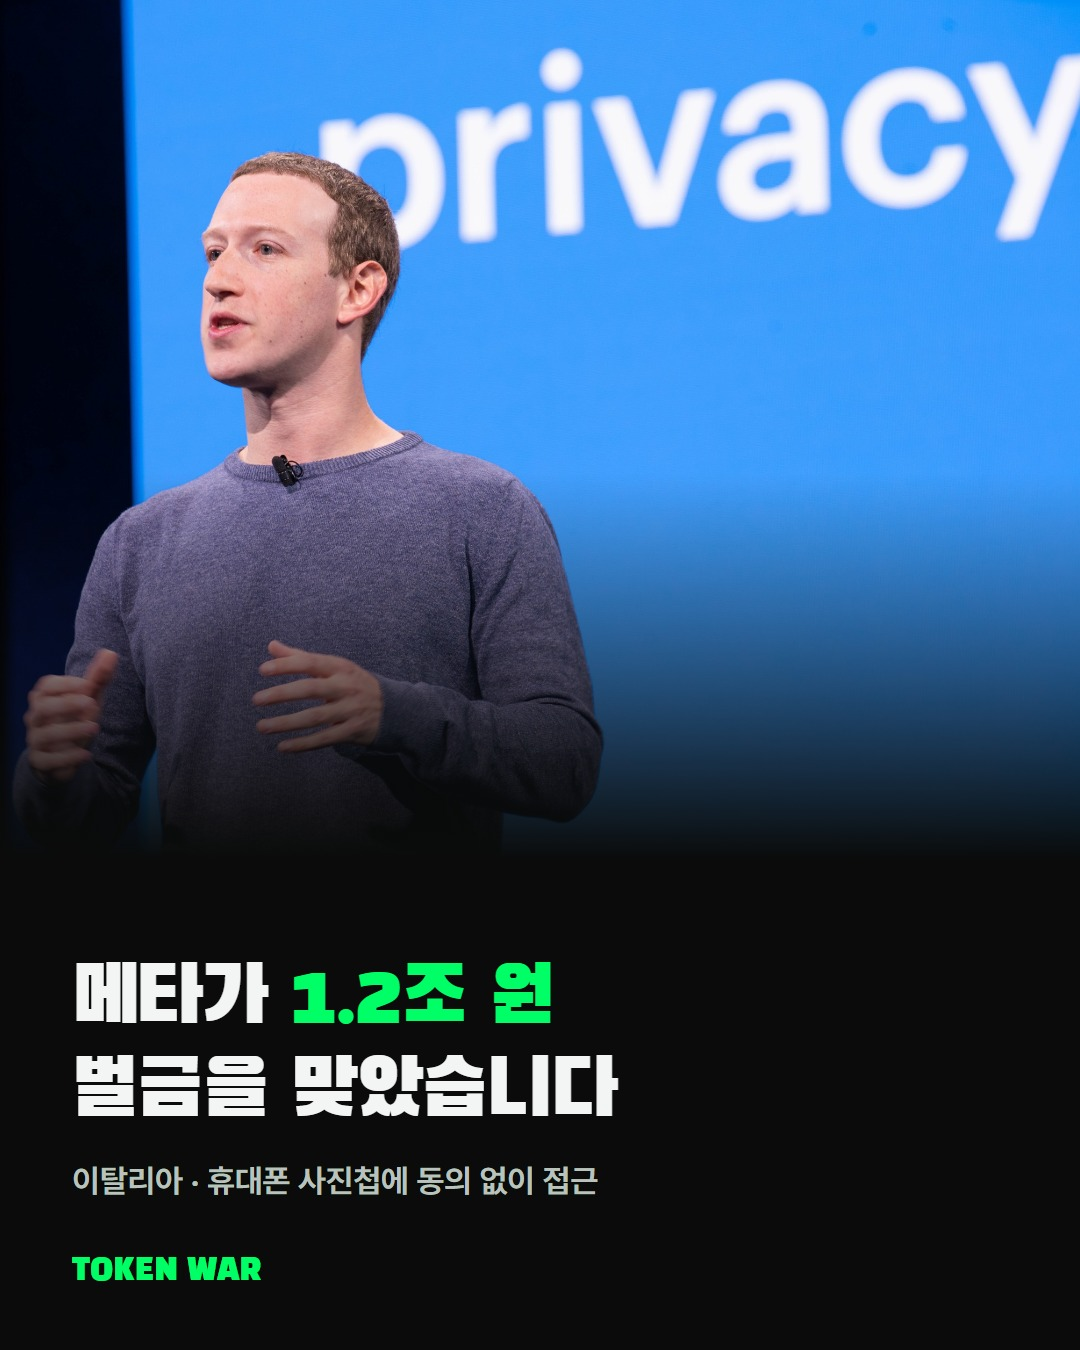
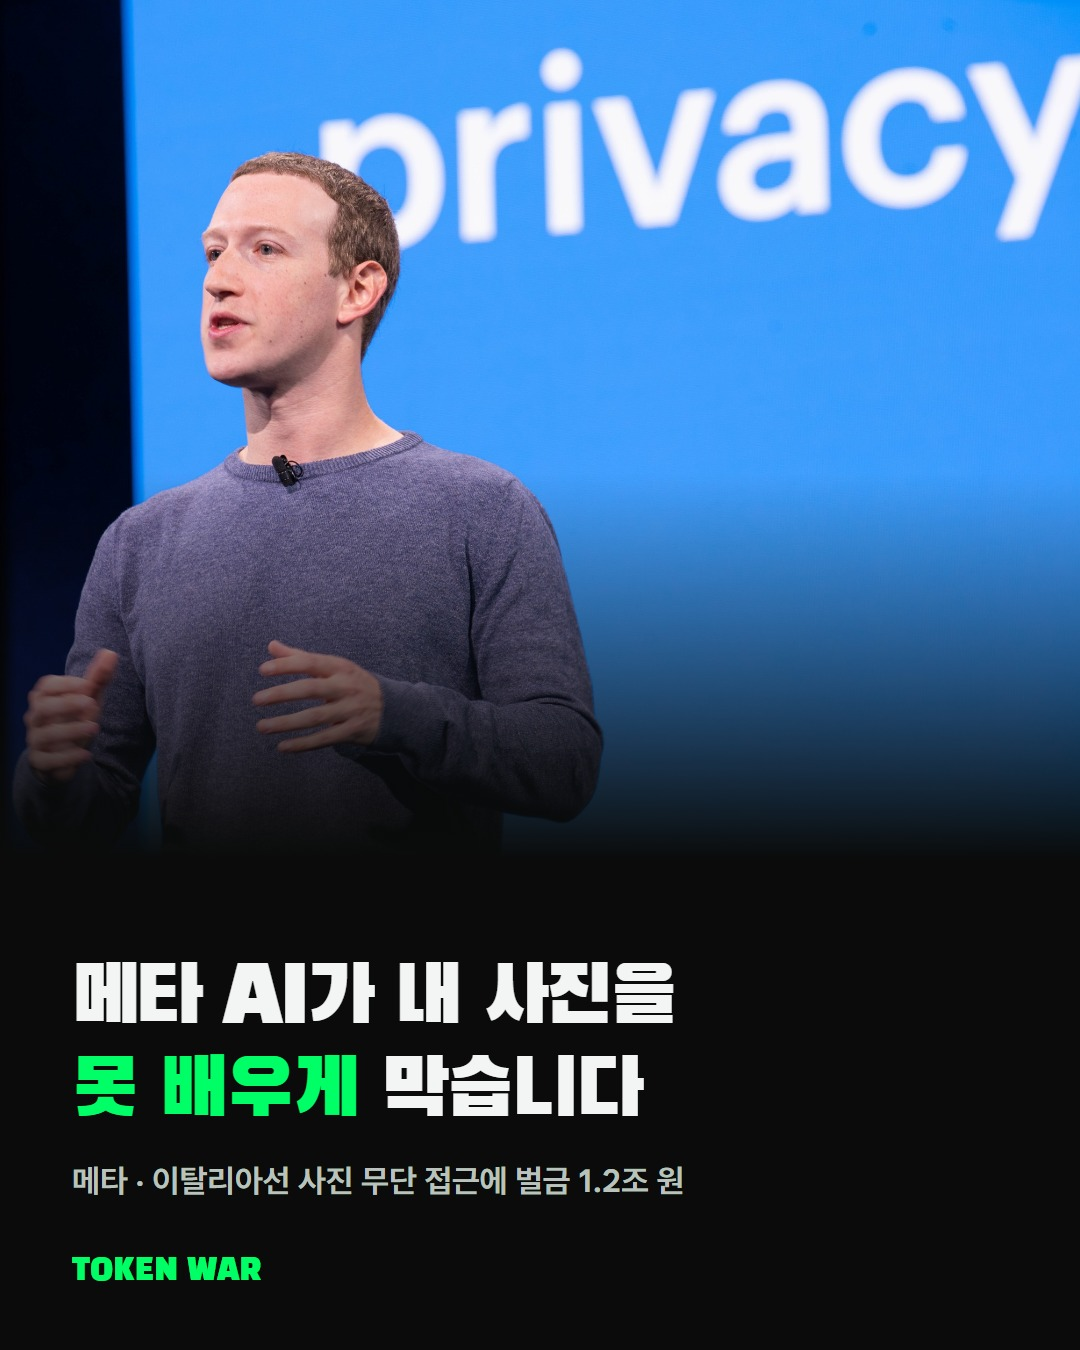
메타 카드 고침(운영자: 할 일이 한눈에 안 보임): 표지에 얻는 것, 벌금 1장, 단계 3개에 큰 번호·화면 캡처·초록 테두리, 양식 안쪽은 글로. 승인 전

Changed region(s): [[0.0611, 0.7156, 0.6417, 0.9022]]

diff --git a/docs/p/2026-11-17-carousel-meta-photo-ai/index.html b/docs/p/2026-11-17-carousel-meta-photo-ai/index.html
@@ -1,7 +1,7 @@
 <!doctype html>
 <html lang="ko"><head><meta charset="utf-8">
 <meta name="viewport" content="width=device-width,initial-scale=1">
-<title>메타가 1.2조 원 벌금을 맞았습니다 · 토큰전쟁</title>
+<title>메타 AI가 내 사진을 못 배우게 막습니다 · 토큰전쟁</title>
 <meta name="description" content="메타는 인스타그램과 페이스북의 공개 정보를 생성형 AI 학습에 사용하며, 개인정보 보호 센터에서 이에 대한 이의 제기(거부) 신청을 받습니다. 아래 순서대로 신청하십시오.">
 <meta name="robots" content="noindex">
 <link rel="preconnect" href="https://fonts.googleapis.com">
@@ -47,10 +47,10 @@ ul{padding-left:20px;color:#CFD6D2}
 </style></head>
 <body><main>
 <div class="brand">TOKEN WAR</div>
-<h1>메타가 <span class="hl">1.2조 원</span><br>벌금을 맞았습니다</h1>
+<h1>메타 AI가 내 사진을<br><span class="hl">못 배우게</span> 막습니다</h1>
 <p class="intro">메타는 인스타그램과 페이스북의 공개 정보를 생성형 AI 학습에 사용하며, 개인정보 보호 센터에서 이에 대한 이의 제기(거부) 신청을 받습니다. 아래 순서대로 신청하십시오.</p>
 <div class="notice"><h3>공식 신청 링크</h3><p>메타 개인정보 보호 센터에 걸린 링크입니다. 로그인한 상태에서 여십시오.</p><ul><li><a href="https://help.instagram.com/contact/233964459562201" rel="noopener">인스타그램 계정으로 신청</a> · 인스타그램 고객 센터</li><li><a href="https://www.facebook.com/help/contact/6359191084165019" rel="noopener">페이스북 계정으로 신청</a> · 페이스북 고객 센터</li><li><a href="https://www.facebook.com/privacy/genai/" rel="noopener">메타 개인정보 보호 센터 안내 페이지</a> · &#x27;이의를 제기할 권리&#x27; 항목</li></ul></div>
-<section class="step"><span class="k">01</span><span class="lb">주소</span><h2>이 주소에서 &#x27;이의를 제기할 권리&#x27;를 펼칩니다</h2><div class="pr"><pre>https://www.facebook.com/privacy/genai/</pre><button type="button" onclick="cp(this)">복사</button></div></section><section class="step"><span class="k">02</span><span class="lb">신청</span><h2>&#x27;Instagram&#x27;을 누르고 &#x27;제출&#x27;을 누릅니다</h2><p>로그인하면 신청 양식이 열립니다. 제출하면 메타가 앞으로 학습에 쓰지 않겠다는 확인 이메일을 보냅니다.</p></section>
+<section class="step"><span class="k">01</span><span class="lb">주소</span><h2>이 주소를 엽니다</h2><div class="pr"><pre>https://www.facebook.com/privacy/genai/</pre><button type="button" onclick="cp(this)">복사</button></div><p>아래쪽 &#x27;이의를 제기할 권리&#x27;를 누릅니다.</p></section><section class="step"><span class="k">02</span><span class="lb">링크 누르기</span><h2>&#x27;Instagram&#x27;을 누릅니다</h2><p>&#x27;이의를 제기할 권리&#x27;를 펼치면 링크가 보입니다. 로그인하면 신청 양식이 열립니다.</p></section><section class="step"><span class="k">03</span><span class="lb">제출</span><h2>&#x27;제출&#x27;을 누릅니다</h2><p>열린 신청 양식에서 &#x27;제출&#x27;을 누릅니다. 메타가 앞으로 학습에 쓰지 않겠다는 확인 이메일을 보냅니다.</p></section>
 <div class="rule"></div><h3>테스트 환경 및 결과</h3><ul class="kv"><li><b>확인 일자:</b> 2026년 11월 16일</li><li><b>확인 환경:</b> Windows 11, 한국에서 접속, 메타 개인정보 보호 센터 한국어 페이지</li><li><b>결과:</b> &#x27;Meta가 생성형 AI 모델 및 기능을 위해 정보를 사용하는 방식&#x27; 페이지의 &#x27;이의를 제기할 권리&#x27; 항목에 페이스북, 인스타그램, 메타 계정별 신청 링크가 있습니다. 메타는 신청이 접수되면 공개 정보를 향후 AI 학습에 사용하지 않겠다는 확인 이메일을 보낸다고 안내합니다. 신청은 로그인한 계정과 같은 계정 센터에 추가된 모든 계정에 적용됩니다.</li><li><b>미확인 범위:</b> 로그인한 뒤 열리는 신청 양식 화면은 확인하지 않았습니다.</li></ul>
 <div class="src">출처<ul><li><a href="https://www.garanteprivacy.it/home/docweb/-/docweb-display/docweb/10321080" rel="noopener">이탈리아 개인정보보호청(Garante) 발표: 메타에 8억 500만 유로 (11월 14일)</a></li><li><a href="https://zdnet.co.kr/view/?no=20261115110940" rel="noopener">ZDNet Korea: 伊, 메타에 1.2조원 과징금 (11월 15일)</a></li><li><a href="https://www.aitimes.com/news/articleView.html?idxno=217416" rel="noopener">AI타임스: 메타, 사용자 사진 무단 접근으로 이탈리아서 1.2조 벌금</a></li><li><a href="https://www.facebook.com/privacy/genai/" rel="noopener">메타 개인정보 보호 센터: 생성형 AI 정보 사용 방식과 이의를 제기할 권리</a></li><li><a href="https://commons.wikimedia.org/wiki/File:Mark_Zuckerberg_F8_2019_Keynote_(46985052234).jpg" rel="noopener">표지 사진: Anthony Quintano, CC BY 2.0, 위키미디어 공용</a></li><li><a href="https://commons.wikimedia.org/wiki/File:Instagram_app_on_smartphone_(grass_background)_(cropped).jpg" rel="noopener">인스타그램 사진: Santeri Viinamäki, CC BY-SA 4.0, 위키미디어 공용</a></li></ul>2026.11.17 기준. 테스트 결과는 작성 시점 기준이며, AI의 응답은 실행할 때마다 달라질 수 있습니다.</div>
 <p class="foot">매일 AI 소식은 <a href="https://www.instagram.com/tokenwar_ai/">@tokenwar_ai</a></p>

diff --git a/posts/queue/2026-11-17-carousel-meta-photo-ai/dm.md b/posts/queue/2026-11-17-carousel-meta-photo-ai/dm.md
@@ -4,7 +4,7 @@
 
 | Zorcha 칸 | 넣을 값 |
 |---|---|
-| 게시물 | 2026-11-17 10:13 게시물 「메타가 1.2조 원 벌금을 맞았습니다」 |
+| 게시물 | 2026-11-17 10:13 게시물 「메타 AI가 내 사진을 못 배우게 막습니다」 |
 | 키워드 (댓글에 이 말이 들어가면) | `자료` |
 | 댓글 공개 답글 | DM으로 보내 드렸어요. 안 보이면 메시지 요청함을 확인해 주세요. |
 | Ask for Follow | 켬 |
